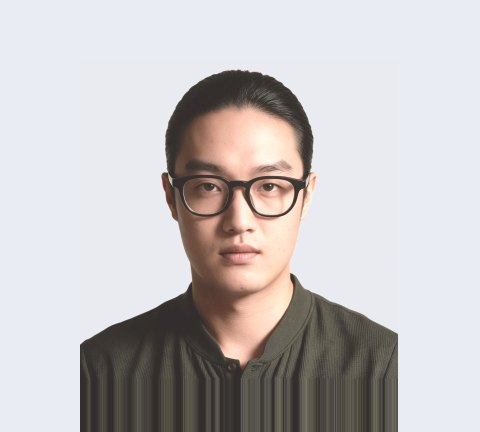
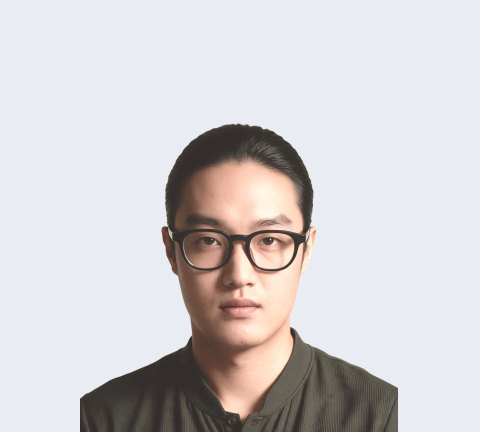
Team page: photo-forward member cards, add kim/jung photos
Claude-Session: https://claude.ai/code/session_01SLcucw3EJpVcAv2XBcjYxg

Changed region(s): [[0.1562, 0.1505, 0.8438, 1.0], [0.1562, 0.963, 0.1875, 0.9931]]

diff --git a/team/index.html b/team/index.html
@@ -11,7 +11,7 @@
 <link rel="icon" href="assets/img/favicon.svg" type="image/svg+xml">
 <link rel="preload" href="assets/fonts/Pretendard-subset.woff2" as="font" type="font/woff2" crossorigin>
 <meta property="og:image" content="https://jeonsan-9.github.io/team/assets/img/hr_proto.jpg">
-<link rel="stylesheet" href="assets/css/style.css?v=20261123b">
+<link rel="stylesheet" href="assets/css/style.css?v=20261123c">
 <script>document.documentElement.classList.add("js")</script>
 <style id="crew-style">
 .deck { grid-template-columns: repeat(3, 1fr); max-width: 360px; }
@@ -26,6 +26,43 @@
 .mini--seal i::before { display: none; }
 .mini--seal strong { position: absolute; left: 24%; top: 13%; color: #fff; font-size: 15cqi; font-weight: 800; line-height: 1.15; letter-spacing: -.03em; }
 .mini--seal small { position: absolute; left: 24%; bottom: 9%; color: rgba(255,255,255,.6); font-size: 7.5cqi; font-weight: 600; }
+
+/* v2 card: photo-forward */
+.deck { grid-template-columns: repeat(3, 1fr); max-width: 420px; gap: 8px; }
+.deck__alumni { max-width: 420px; }
+.mini__ph { left: 14%; right: 0; top: 0; height: 61%; }
+.mini__ph img { object-position: 50% 45%; }
+.mini span { top: auto; bottom: 5%; right: 8%; z-index: 2; }
+.mini em { top: 66%; left: 22%; }
+.mini b { top: 77%; left: 22%; }
+.mini--lead .mini__ph::after, .mini .mini__ph::after { content: ""; position: absolute; left: 0; right: 0; bottom: 0; height: 2px; background: var(--navy); }
+.mini--lead .mini__ph::after { background: var(--red); }
+/* 정명현: 지상 최강의 생물 */
+.mini--aura { z-index: 1; animation: aura 2.4s ease-in-out infinite, quake 4.8s steps(1) infinite; }
+.mini__ph--aura { background: radial-gradient(circle at 50% 70%, #3A0E12 0, #0B0F1C 72%); }
+.mini__ph--aura::before { content: ""; position: absolute; left: -60%; top: -60%; width: 220%; height: 220%;
+  background: repeating-conic-gradient(from 0deg at 50% 50%, rgba(214,59,62,.75) 0 3deg, rgba(214,59,62,0) 3deg 11deg, rgba(255,255,255,.18) 11deg 12deg, rgba(214,59,62,0) 12deg 20deg);
+  -webkit-mask: radial-gradient(circle, transparent 0 14%, #000 40%); mask: radial-gradient(circle, transparent 0 14%, #000 40%);
+  animation: rays 14s linear infinite; }
+.mini__ph--aura img { position: relative; z-index: 1; object-fit: contain; object-position: 50% 100%;
+  filter: contrast(1.15) drop-shadow(0 0 2px #fff) drop-shadow(0 0 10px #D63B3E) drop-shadow(0 0 22px rgba(214,59,62,.9));
+  animation: flare 2.4s ease-in-out infinite; }
+.mini__tag { position: absolute; z-index: 2; left: 6%; top: 7%; padding: .25em .6em; background: var(--red); color: #fff;
+  font-size: 6.4cqi; font-weight: 800; letter-spacing: -.02em; text-decoration: none; transform: skewX(-12deg); box-shadow: 2px 2px 0 #0B0F1C; }
+.mini__fx { position: absolute; z-index: 2; right: 5%; top: 6%; writing-mode: vertical-rl; color: #fff; quotes: none;
+  font-size: 10cqw; font-weight: 900; letter-spacing: -.08em; -webkit-text-stroke: .6px #D63B3E; text-shadow: 0 0 6px #D63B3E; opacity: .9; transform: skewY(-8deg); }
+.mini--aura .mini__ph::after { background: var(--red); height: 3px; }
+.mini--aura em { background: #0B0F1C; }
+.mini--aura b { color: #0B0F1C; text-shadow: 1.5px 1.5px 0 rgba(214,59,62,.35); }
+@keyframes aura { 0%,100% { box-shadow: 0 0 0 1.5px var(--red), 0 0 12px 2px rgba(214,59,62,.45), 0 0 34px 6px rgba(11,15,28,.35); }
+  50% { box-shadow: 0 0 0 1.5px var(--red), 0 0 26px 8px rgba(214,59,62,.75), 0 0 60px 16px rgba(11,15,28,.45); } }
+@keyframes rays { to { transform: rotate(360deg); } }
+@keyframes flare { 0%,100% { transform: scale(1); } 50% { transform: scale(1.035); } }
+@keyframes quake { 0%,86%,100% { transform: none; } 88% { transform: translate(1.5px,-1px) rotate(-.6deg); } 90% { transform: translate(-2px,1px) rotate(.6deg); } 92% { transform: translate(1px,1.5px); } 94% { transform: translate(-1px,-1px) rotate(-.3deg); } }
+.mini--aura:hover { animation-duration: 1.2s, .5s; }
+@media (prefers-reduced-motion: reduce) { .mini--aura, .mini__ph--aura::before, .mini__ph--aura img { animation: none; }
+  .mini--aura { box-shadow: 0 0 0 1.5px var(--red), 0 0 20px 6px rgba(214,59,62,.6); } }
+@media (max-width: 640px) { .deck, .deck__alumni { max-width: none; } }
 </style>
 </head>
 <body>
@@ -59,13 +96,13 @@
 <section class="spread about" id="about">
   <div class="about__left">
     <div class="deck reveal" aria-label="팀원 명찰 8장">
-      <div class="mini mini--lead"><i></i><span>NO.01</span><u class="mini__ph"><img src="assets/img/members/jeon.jpg?v=20261123b" alt="전상훈" loading="lazy"></u><b>전상훈</b><em>팀장</em></div>
-      <div class="mini"><i></i><span>NO.02</span><u class="mini__ph"><img src="assets/img/members/jang.jpg?v=20261123b" alt="장원준" loading="lazy"></u><b>장원준</b><em>팀원</em></div>
-      <div class="mini"><i></i><span>NO.03</span><u class="mini__ph mini__ph--none" aria-hidden="true"></u><b>김형우</b><em>팀원</em></div>
-      <div class="mini"><i></i><span>NO.04</span><u class="mini__ph"><img src="assets/img/members/choi.jpg?v=20261123b" alt="최병재" loading="lazy"></u><b>최병재</b><em>팀원</em></div>
-      <div class="mini"><i></i><span>NO.05</span><u class="mini__ph"><img src="assets/img/members/nam.jpg?v=20261123b" alt="남재현" loading="lazy"></u><b>남재현</b><em>팀원</em></div>
-      <div class="mini"><i></i><span>NO.06</span><u class="mini__ph"><img src="assets/img/members/yoo.jpg?v=20261123b" alt="유지호" loading="lazy"></u><b>유지호</b><em>팀원</em></div>
-      <div class="mini"><i></i><span>NO.07</span><u class="mini__ph mini__ph--none" aria-hidden="true"></u><b>정명현</b><em>팀원</em></div>
+      <div class="mini mini--lead"><i></i><span>NO.01</span><u class="mini__ph"><img src="assets/img/members/jeon.jpg?v=20261123c" alt="전상훈" loading="lazy"></u><b>전상훈</b><em>팀장</em></div>
+      <div class="mini"><i></i><span>NO.02</span><u class="mini__ph"><img src="assets/img/members/jang.jpg?v=20261123c" alt="장원준" loading="lazy"></u><b>장원준</b><em>팀원</em></div>
+      <div class="mini"><i></i><span>NO.03</span><u class="mini__ph"><img src="assets/img/members/kim.jpg?v=20261123c" alt="김형우" loading="lazy"></u><b>김형우</b><em>팀원</em></div>
+      <div class="mini"><i></i><span>NO.04</span><u class="mini__ph"><img src="assets/img/members/choi.jpg?v=20261123c" alt="최병재" loading="lazy"></u><b>최병재</b><em>팀원</em></div>
+      <div class="mini"><i></i><span>NO.05</span><u class="mini__ph"><img src="assets/img/members/nam.jpg?v=20261123c" alt="남재현" loading="lazy"></u><b>남재현</b><em>팀원</em></div>
+      <div class="mini"><i></i><span>NO.06</span><u class="mini__ph"><img src="assets/img/members/yoo.jpg?v=20261123c" alt="유지호" loading="lazy"></u><b>유지호</b><em>팀원</em></div>
+      <div class="mini mini--aura"><i></i><span>NO.07</span><u class="mini__ph mini__ph--aura"><img src="assets/img/members/jung.png?v=20261123c" alt="정명현" loading="lazy"><s class="mini__tag">지상 최강의 생물</s><q class="mini__fx" aria-hidden="true">쿠구구구</q></u><b>정명현</b><em>팀원</em></div>
       <div class="mini"><i></i><span>NO.08</span><u class="mini__ph mini__ph--none" aria-hidden="true"></u><b>이가연</b><em>팀원</em></div>
       <div class="mini mini--seal" aria-hidden="true"><i></i><strong>문제적<br>사람들</strong><small>똑바로 해라.</small></div>
     </div>
@@ -304,6 +341,6 @@
 </section>
 
 </main>
-<script src="assets/js/main.js?v=20261123b" defer></script>
+<script src="assets/js/main.js?v=20261123c" defer></script>
 </body>
 </html>
